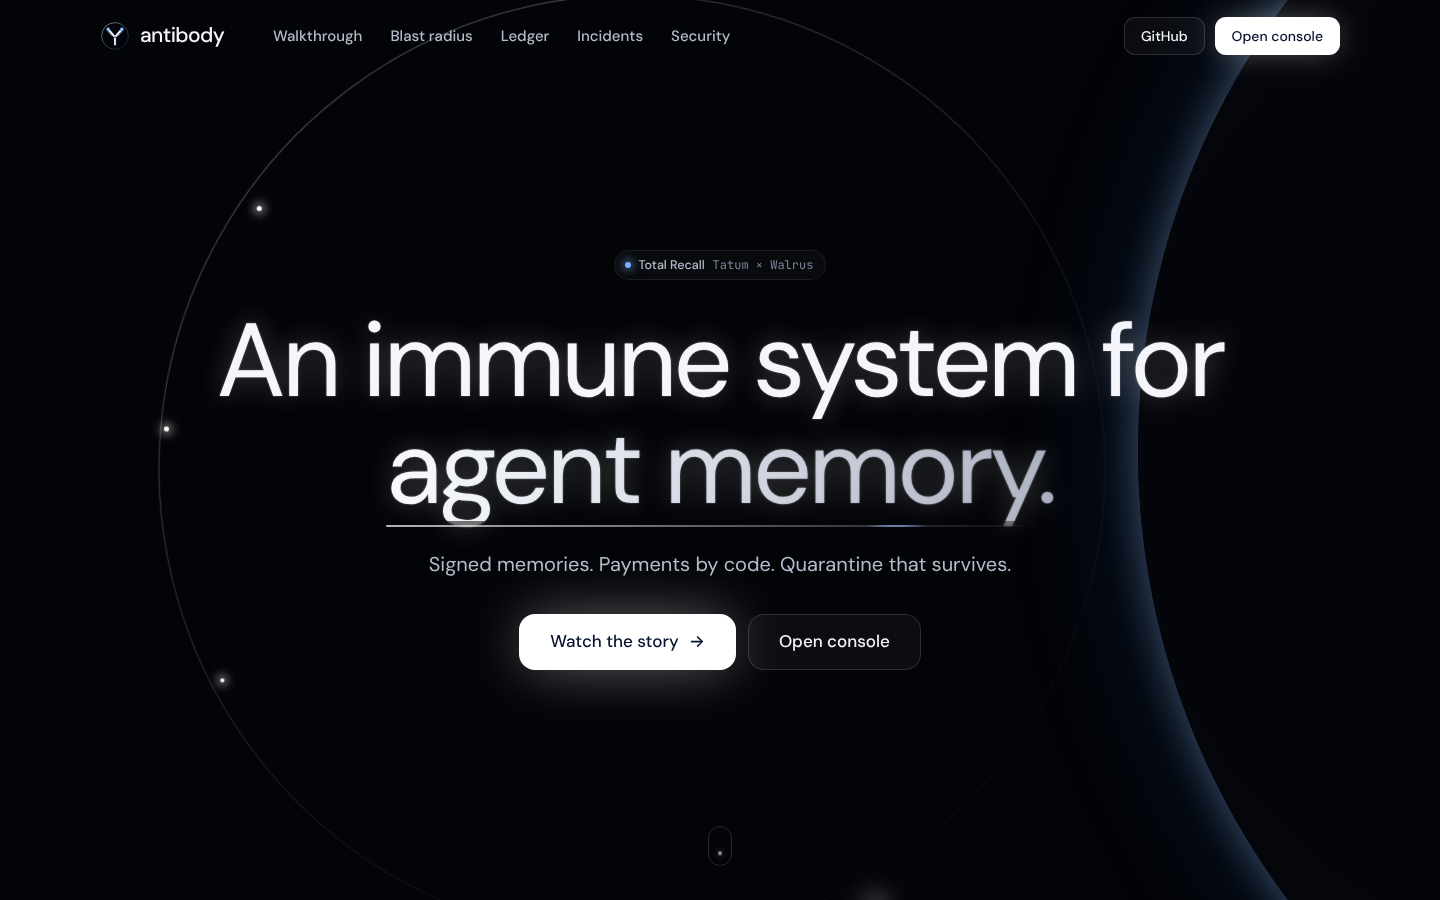
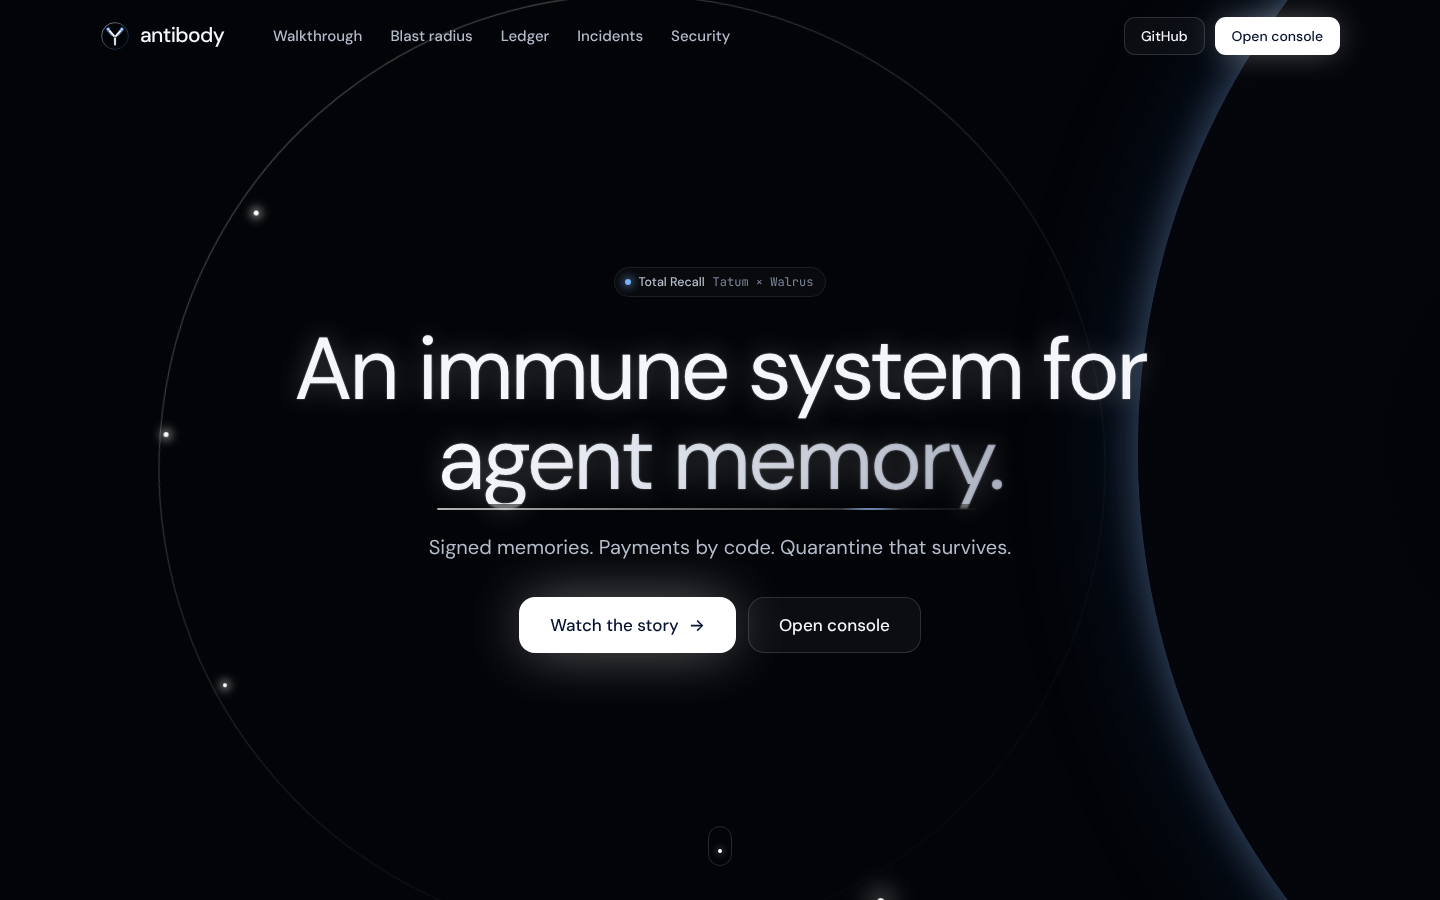
Make the hero headline one size smaller

diff --git a/web/assets/css/landing.css b/web/assets/css/landing.css
@@ -3,7 +3,7 @@
 /* ---- 1 · hero ---------------------------------------------------------------- */
 .hero { position: relative; min-height: max(100svh, 720px); display: grid; place-items: center; overflow: hidden; isolation: isolate; }
 .hero-inner { position: relative; z-index: 2; text-align: center; display: grid; justify-items: center; gap: 28px; padding: 140px 0 120px; }
-.hero h1 { max-width: 15ch; font-size: clamp(46px, 7.4vw, 104px); font-weight: 400; }
+.hero h1 { max-width: 15ch; font-size: clamp(40px, 6.2vw, 88px); font-weight: 400; }
 .hero .lede { text-align: center; }
 .ctas { display: flex; flex-wrap: wrap; gap: 12px; justify-content: center; margin-top: 6px; }
 .ctas .btn-primary { box-shadow: 0 0 0 1px #fff inset, 0 0 60px -6px rgba(255, 255, 255, 0.45); }
